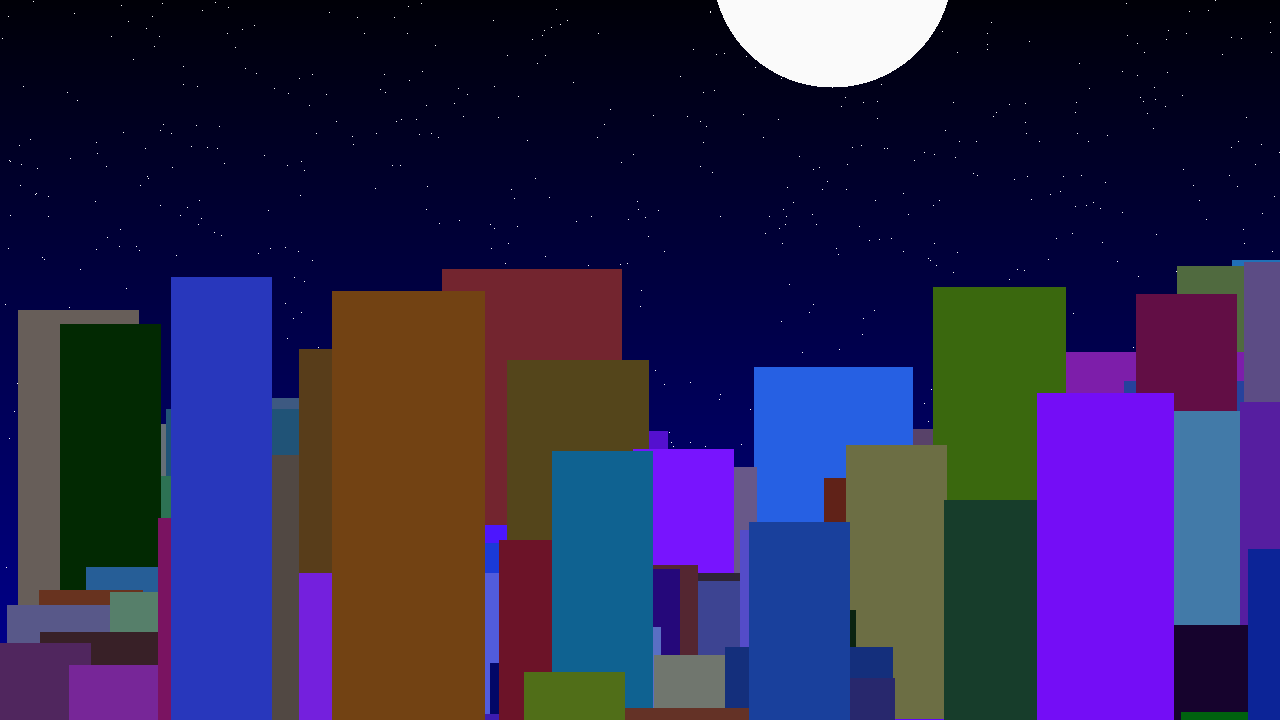
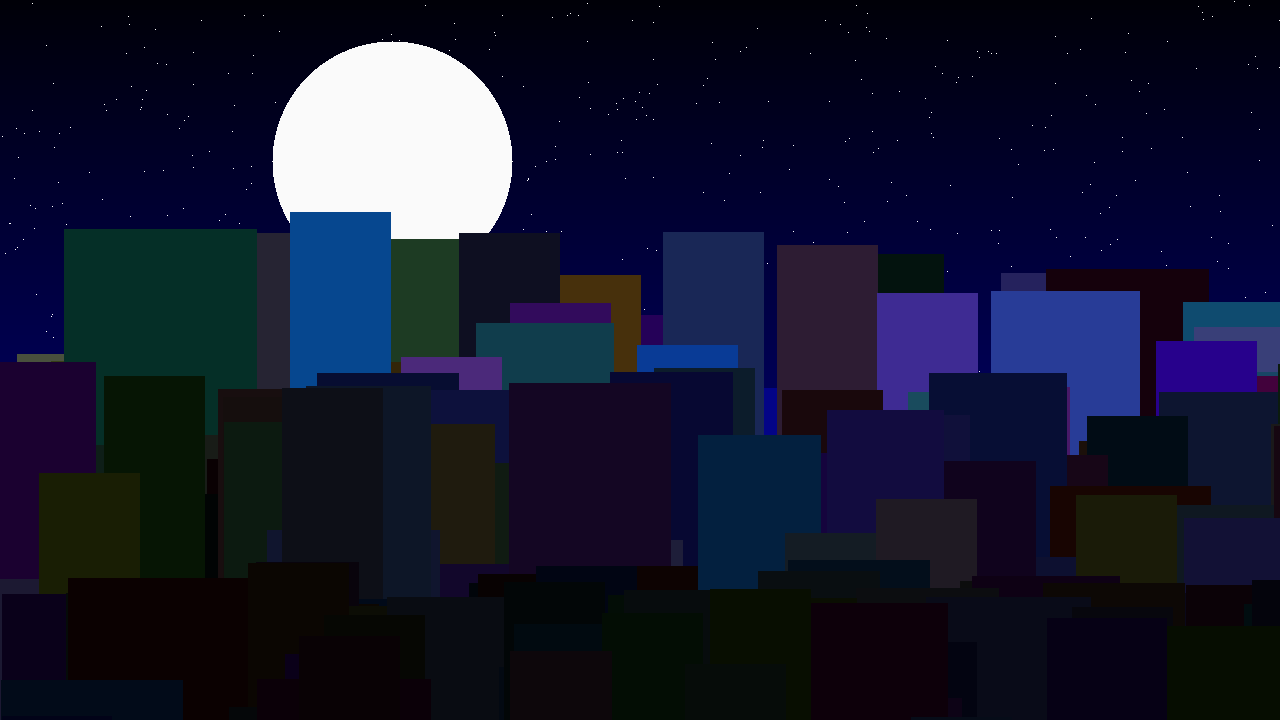
Added shading depending on the depth of the building

diff --git a/gen.py b/gen.py
@@ -10,7 +10,7 @@ def random_rectangle(img, depth):
         int(depth * img_size[0]/4), img_size[0]))
     pt2 = (max(pt1[0]+100, randrange(pt1[0], pt1[0] + 200)), img_size[0])
 
-    color = night_filter((randrange(255), randrange(255), randrange(255)))
+    color = night_filter((randrange(255), randrange(255), randrange(255)), depth)
 
     cv2.rectangle(img, pt1, pt2, color, -1)
 
@@ -29,12 +29,12 @@ def random_moon(img):
     cv2.circle(img, pt1, 120, (250, 250, 250), -1)
 
 
-def night_filter(color):
+def night_filter(color, depth):
     B = 1
     G = .5
     R = .5
 
-    return (color[0] * B, color[1] * G, color[2] * R)
+    return (color[0] * B/(depth * depth), color[1] * G/(depth * depth), color[2] * R/(depth * depth))
 
 
 def sky(img):
@@ -48,7 +48,7 @@ def sky(img):
         total += step
 
 
-def crop(img,w,h):
+def crop(img, w, h):
     center = (img.shape[0]/2, img.shape[1]/2)
     x = center[1] - w/2
     y = center[0] - h/2
@@ -66,13 +66,17 @@ for i in range(1000):
 random_moon(img)
 
 for i in range(100):
-    random_rectangle(img, 1.5)
-    random_rectangle(img, 2.3)
+    random_rectangle(img, 1.25)
+
+for i in range(150):
+    random_rectangle(img, 2)
+
+for i in range(200):
     random_rectangle(img, 3)
 
-img = crop(img,1280,720)
+img = crop(img, 1280, 720)
 
 cv2.imshow('test', img)
 cv2.waitKey()
 
-cv2.imwrite('test.png',img)
+cv2.imwrite('test.png', img)
